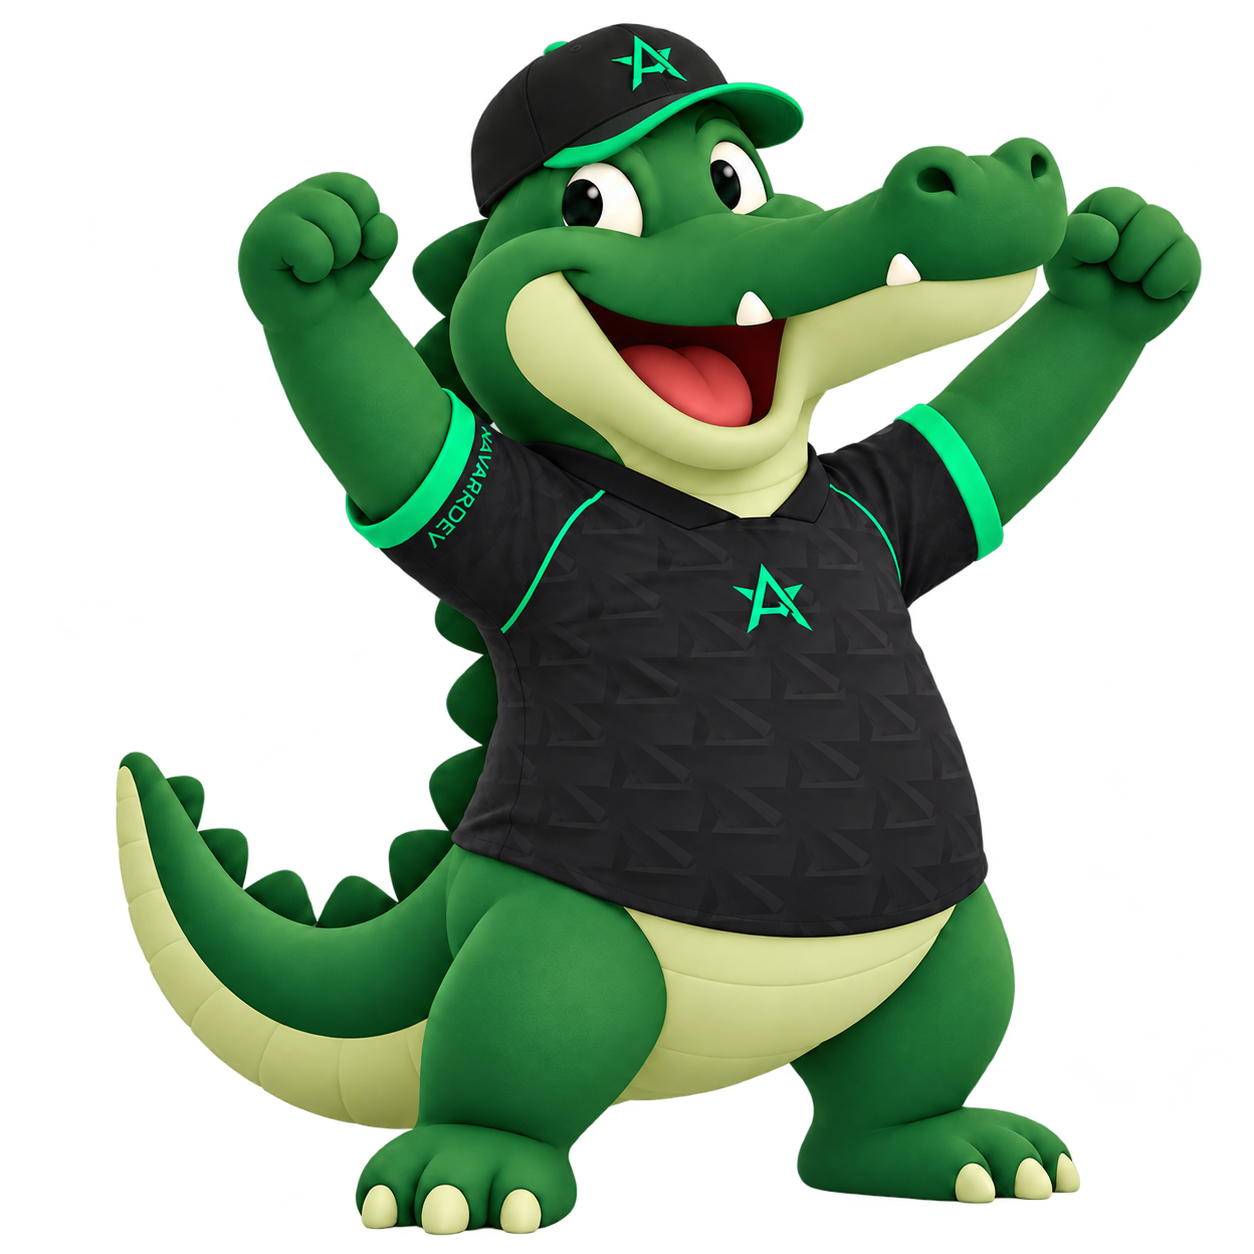
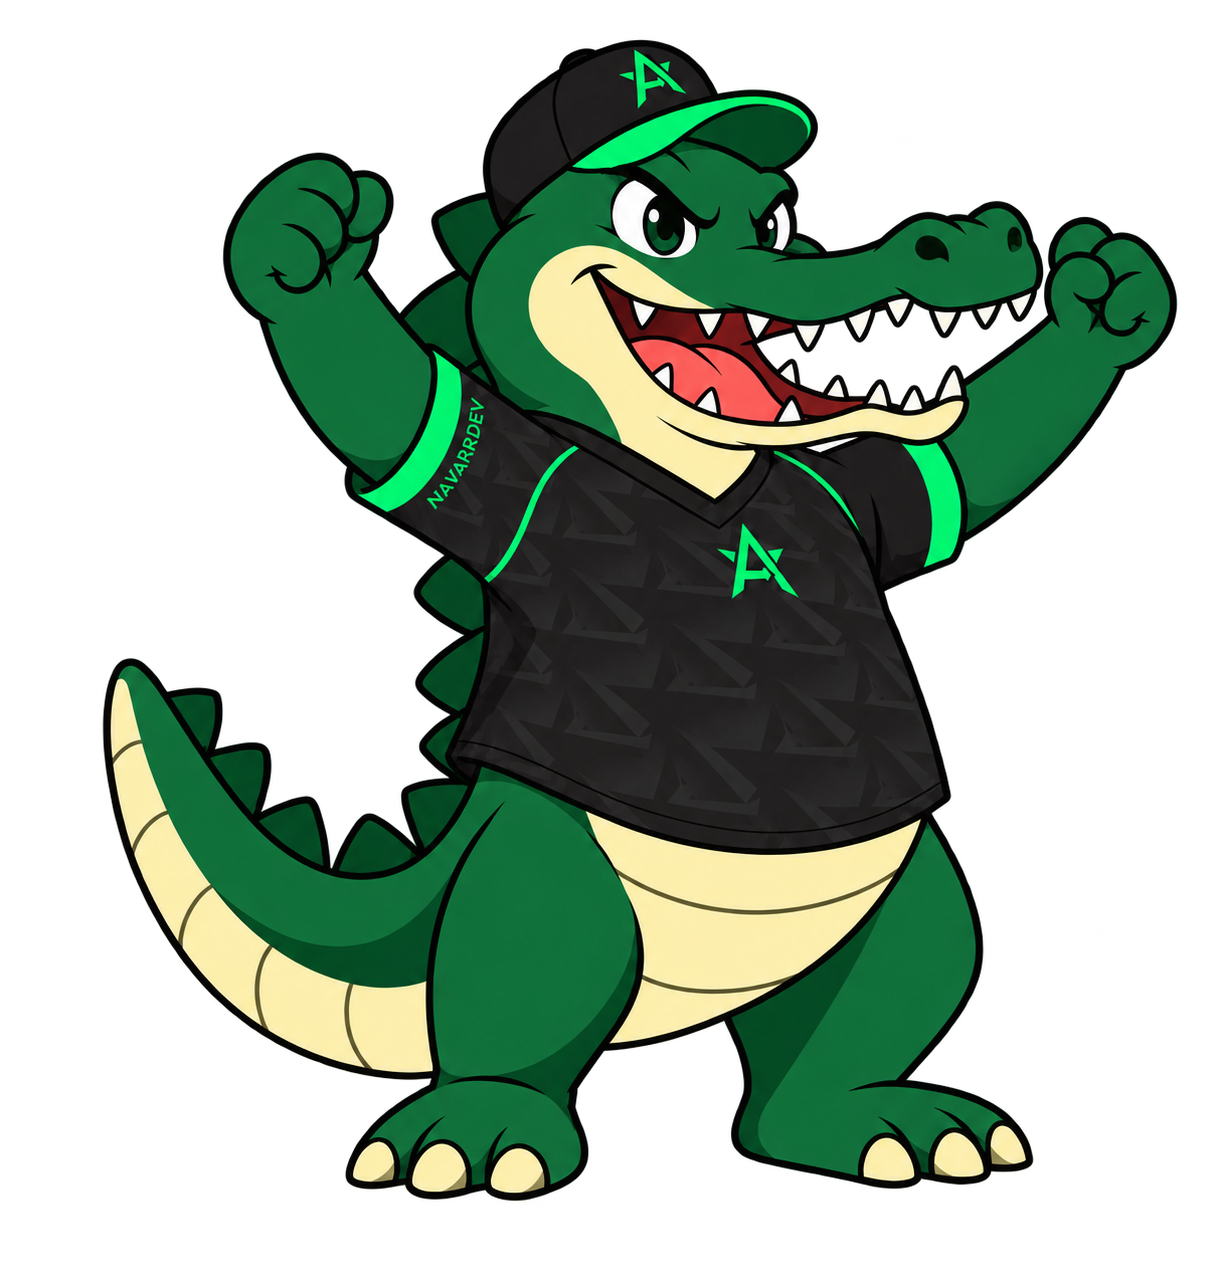
feat: reemplazar Cocoliche por las diez poses 2D corregidas

diff --git a/src/components/Mascot.jsx b/src/components/Mascot.jsx
@@ -1,14 +1,14 @@
 const poses = {
-  welcome: ['01-saludando.png', 'La mascota saludando'],
-  contact: ['02-pulgar-arriba.png', 'La mascota con el pulgar arriba'],
-  team: ['03-brazos-cruzados.png', 'La mascota con los brazos cruzados'],
-  community: ['04-celebrando.png', 'La mascota celebrando'],
-  application: ['05-senalando.png', 'La mascota señalando'],
-  tournaments: ['06-corriendo.png', 'La mascota corriendo'],
-  history: ['07-sentado.png', 'La mascota sentada'],
-  media: ['08-sorprendido.png', 'La mascota sorprendida'],
-  about: ['09-saltando.png', 'La mascota saltando'],
-  matches: ['10-jugando-pc.png', 'La mascota jugando en la computadora'],
+  welcome: ['01-saludando.png', 'Cocoliche saludando'],
+  contact: ['02-pulgar-arriba.png', 'Cocoliche con el pulgar arriba'],
+  team: ['03-brazos-cruzados.png', 'Cocoliche con los brazos cruzados'],
+  community: ['04-celebrando.png', 'Cocoliche celebrando'],
+  application: ['05-senalando.png', 'Cocoliche señalando'],
+  tournaments: ['06-corriendo.png', 'Cocoliche corriendo'],
+  history: ['07-sentado.png', 'Cocoliche sentado'],
+  media: ['08-sorprendido.png', 'Cocoliche sorprendido'],
+  about: ['09-saltando.png', 'Cocoliche saltando'],
+  matches: ['10-jugando-pc.png', 'Cocoliche jugando en la computadora'],
 }
 const images = import.meta.glob('../assets/mascot/*.png', { eager: true, query: '?url', import: 'default' })
 
